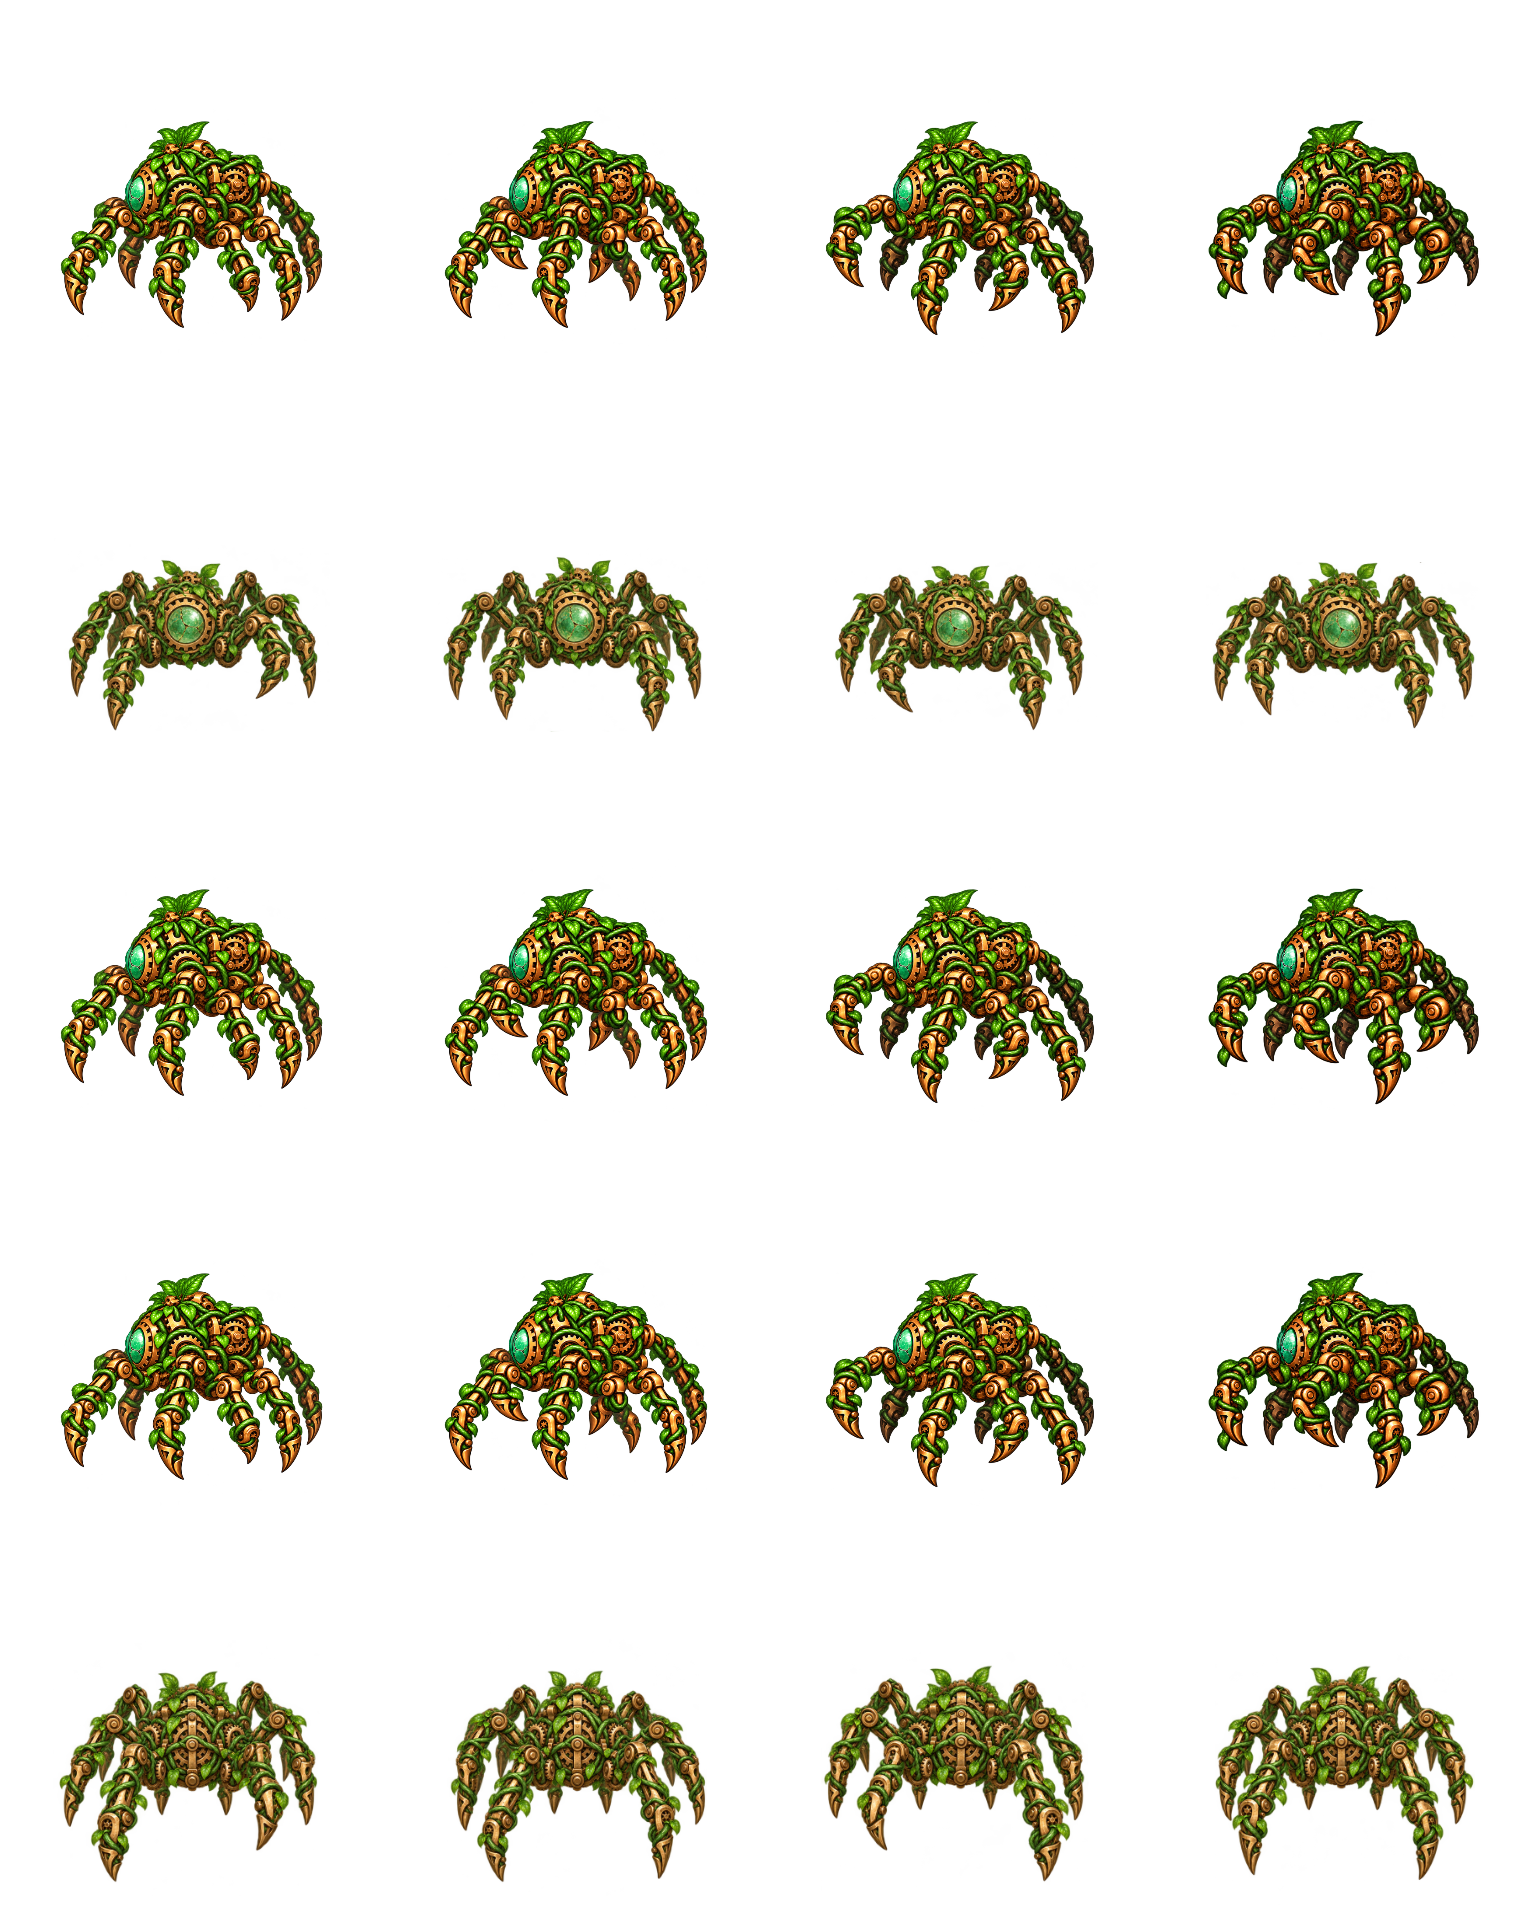
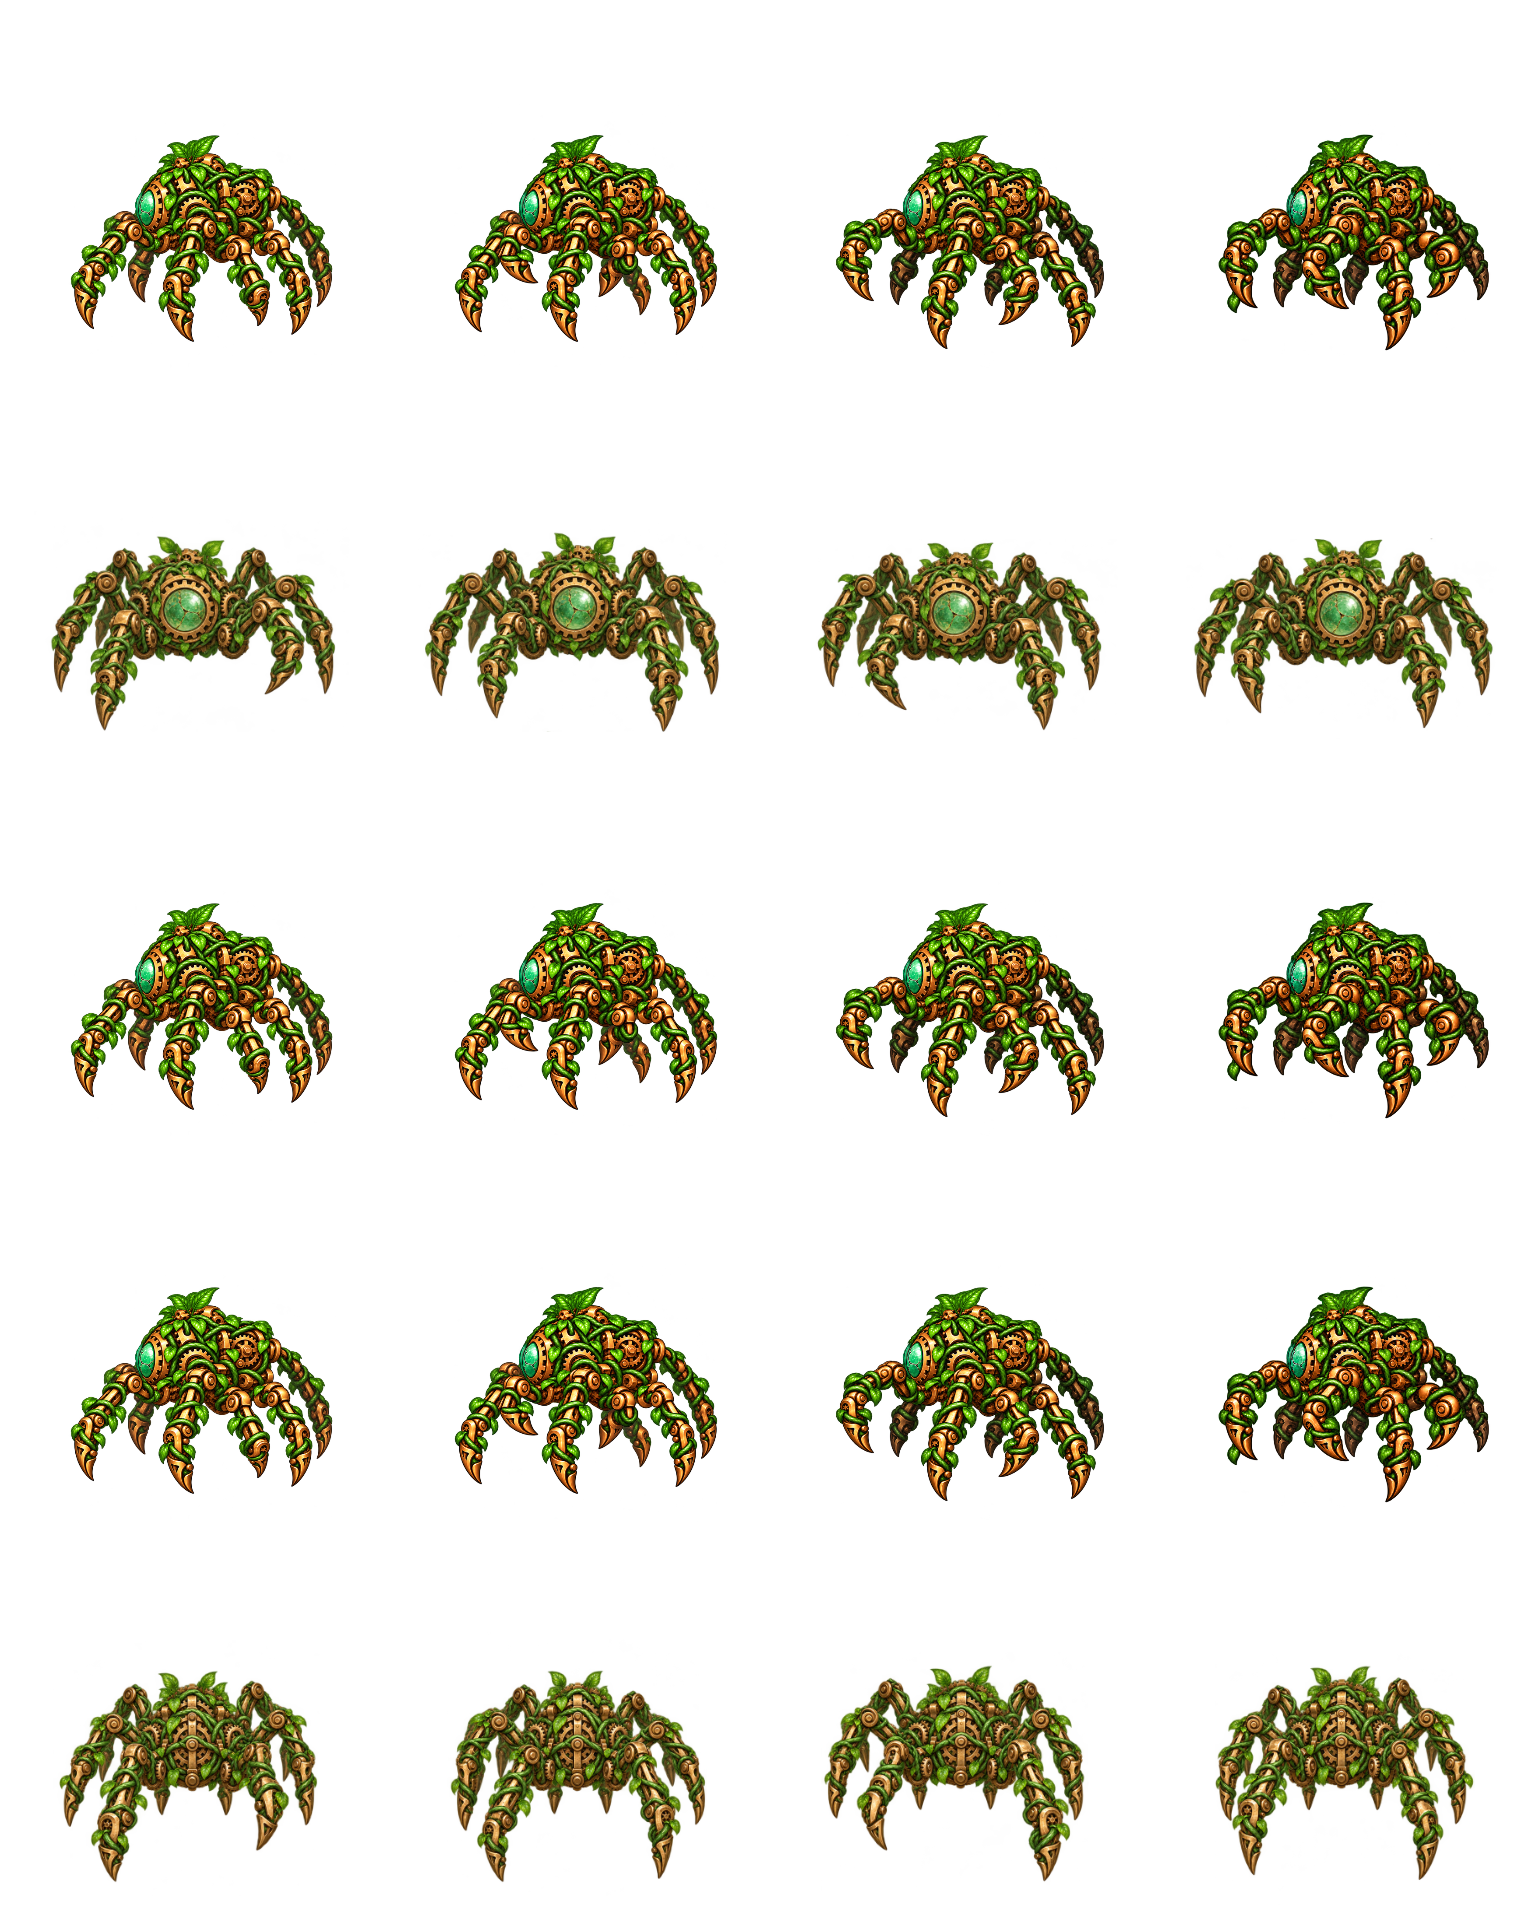
art: align Vinecrawler walk scale and expose clip registration

diff --git a/art-source/monsters/mob_0014/combined-review.html b/art-source/monsters/mob_0014/combined-review.html
@@ -5,13 +5,14 @@
 <select id="view"><option>left</option><option>front</option><option>back</option></select>
 <select id="clip"><option>idle</option><option>walk</option><option>attack</option><option>hit</option><option>death</option></select>
 <button id="replay">Replay</button><br><canvas id="motion" width="384" height="384"></canvas>
+<h2>Clip registration: idle / walk contact A / walk contact B</h2><canvas id="registration" width="1152" height="1152"></canvas>
 <iframe id="flight" src="./walk-review.html"></iframe><iframe id="actions" src="./actions-review.html"></iframe>
 <script type="module">
 const flight=document.querySelector('#flight'),actions=document.querySelector('#actions');
 await new Promise(resolve=>{const timer=setInterval(()=>{if(flight.contentWindow.__vinecrawlerWalk?.ready&&actions.contentWindow.__vinecrawlerActions?.ready){clearInterval(timer);resolve();}},50);});
 const json={id:'vinecrawler_2d',kind:'sheet',facingMode:'directional',frame:{w:384,h:384},pivot:{x:192,y:346},pixelsPerCell:300,rows:['W','S','SW','NW','N'],mirror:{E:'W',SE:'W',NE:'W'},animations:{idle:{file:'idle.png',frames:6,fps:4,loop:true},walk:{file:'walk.png',frames:4,fps:7,loop:true,refMsPerCell:240},attack:{file:'attack.png',frames:6,fps:8,events:{hit:3}},hit:{file:'hit.png',frames:6,fps:12},death:{file:'death.png',frames:6,fps:8,hold:true}}};
 function draw(ctx,clip,f,view){
- if(clip==='walk')flight.contentWindow.__vinecrawlerWalk.draw(ctx,f,192,346,.5,view);
+ if(clip==='walk')flight.contentWindow.__vinecrawlerWalk.draw(ctx,f,view==='left'?202:192,view==='left'?360:346,view==='front'?.57:.5,view);
  else actions.contentWindow.__vinecrawlerActions.draw(ctx,f,192,346,.5,view,clip);
 }
 function exportDraft(){
@@ -29,5 +30,5 @@ const ctx=document.querySelector('canvas').getContext('2d');let start=performanc
 for(const id of ['view','clip'])document.querySelector('#'+id).onchange=()=>start=performance.now();
 document.querySelector('#replay').onclick=()=>start=performance.now();
 function tick(now){const clip=document.querySelector('#clip').value,view=document.querySelector('#view').value,def=json.animations[clip];let f=Math.floor((now-start)*def.fps/1000);f=def.loop?f%def.frames:Math.min(def.frames-1,f);ctx.clearRect(0,0,384,384);draw(ctx,clip,f,view);requestAnimationFrame(tick);}
-window.__monsterDraft={ready:true,exportDraft};requestAnimationFrame(tick);
+const comparison=document.querySelector('#registration').getContext('2d');for(const [row,view]of ['left','front','back'].entries())for(const [col,sample]of [['idle',0],['walk',0],['walk',2]].entries()){comparison.save();comparison.translate(col*384,row*384);comparison.strokeStyle='#b4c3b6';comparison.beginPath();comparison.moveTo(0,346);comparison.lineTo(384,346);comparison.stroke();draw(comparison,sample[0],sample[1],view);comparison.fillStyle='#fff';comparison.fillText(view+' '+sample[0]+' '+sample[1],12,18);comparison.restore();}window.__monsterDraft={ready:true,exportDraft};requestAnimationFrame(tick);
 </script>
